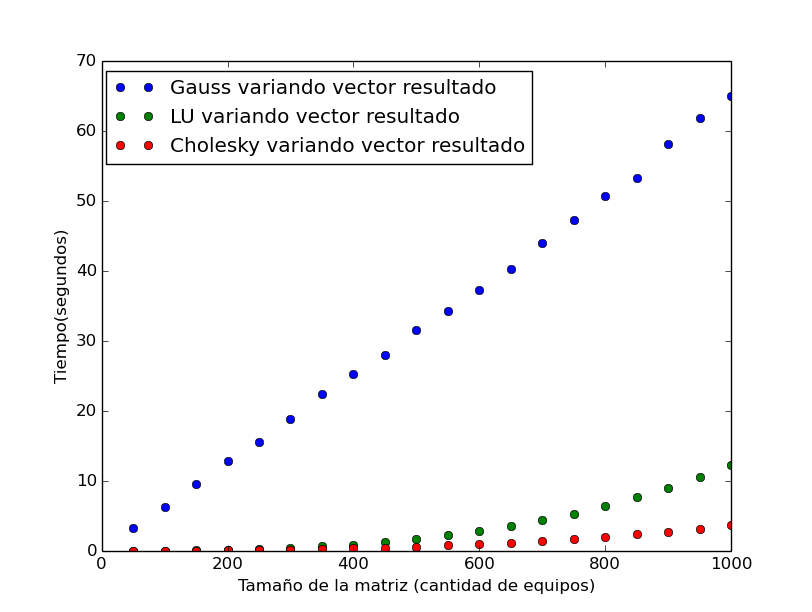
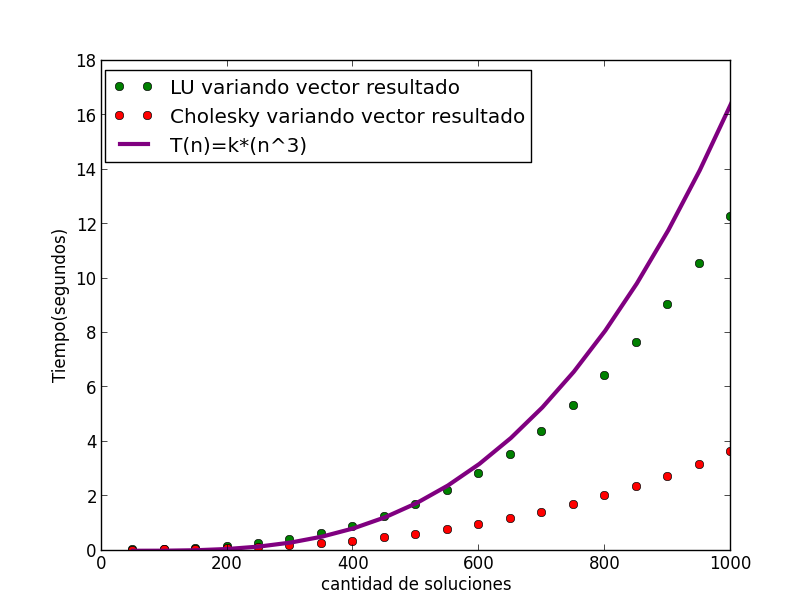
faltan un par de arreglos para que funcione minimizar

diff --git a/src/minimizar.cpp b/src/minimizar.cpp
@@ -1,0 +1,164 @@
+#include "clases/Matriz.h"
+#include "clases/MatrizSimetrica.h"
+//#include "crearTests/crearTests.cpp" Incluir en caso de querer crear matrices de esta manera
+#include "factorizacion/gauss.cpp"
+#include "factorizacion/cholesky.cpp"
+#include "factorizacion/resolucionSistema.cpp"
+#include <string>
+#include <fstream>
+#include <sstream>
+#include <iostream>
+#include <vector>
+#include <sys/time.h>
+
+timeval sstart, eend;
+double acum = 0;
+
+void init_time() {
+  gettimeofday(&sstart, NULL);
+}
+
+double get_time() {
+  gettimeofday(&eend, NULL);
+  return (1000000*(eend.tv_sec-sstart.tv_sec) + (eend.tv_usec-sstart.tv_usec))/1000000.0;
+}
+
+int maximo(vector<float>& a) {
+  int max = 0;
+  int n = a.size();
+
+  for (int i = 1; i < n; ++i) {
+    if (a[i] > a[max])
+      max = i;
+  }
+  return max;
+}
+
+int evaluarTests(std::string fileTestData, std::string fileTestResult, int equipo) {
+  std::string line;
+  std::ifstream fileData (fileTestData.c_str());
+  std::ofstream fileWrite (fileTestResult.c_str());
+  std::string s;
+  std::string res;
+  int cantEquipos;
+  int cantPartidos;
+  int z = 0;
+
+
+  while (getline (fileData, line)) {
+
+    std::istringstream iss(line);
+    iss >> cantEquipos;
+    iss >> cantPartidos;
+    Matriz C(cantEquipos, cantEquipos);
+    vector<int> w(cantEquipos, 0); // Cada posición tiene el numero de partidos ganados por el equipo i
+    vector<int> l(cantEquipos, 0); // Cada posición tiene el numero de partidos perdidos por el equipo i
+    vector<float> b(cantEquipos, 0); // Vector del sistema Cr = b
+
+    for (int k = 0; k < cantPartidos; ++k) {
+    
+      getline (fileData, line);
+
+      std::istringstream iss(line);
+
+      std::string fecha;
+      int equipo1;
+      int equipo2;
+      int golesEquipo1;
+      int golesEquipo2;
+
+      iss >> fecha;
+      iss >> equipo1;
+      iss >> golesEquipo1;
+      iss >> equipo2;
+      iss >> golesEquipo2;
+
+      equipo1 -= 1;
+      equipo2 -= 1;
+
+      if (golesEquipo1 > golesEquipo2) { // Gano el equipo 1
+        w[equipo1]++;
+        l[equipo2]++;
+      } else {
+        w[equipo2]++;
+        l[equipo1]++;
+      }
+
+      C[equipo1][equipo2]--;
+      C[equipo2][equipo1]--;
+
+    }
+
+    for (int i = 0 ; i < cantEquipos ; ++i) {
+      C[i][i] = 2.0 + w[i] + l[i];
+      b[i] = 1.0 + (w[i] - l[i]) / 2.0; 
+    }
+
+    std::vector<float> r(cantEquipos, 0);
+    std::vector<float> y(cantEquipos, 0);
+
+    Matriz L(cantEquipos, cantEquipos);
+
+    equipo -= 1;
+    cholesky(C, L);
+    Matriz LT = L;
+    LT.transponer();
+
+    resolverSistemaParaAdelante(L, b, y);
+    resolverSistemaParaAtras(LT, y, r);
+
+    int cantidadDePartidos = 0;
+    int ganador = maximo(r);
+    while (ganador != equipo) {
+      std::cout << ganador << std::endl;
+      cantidadDePartidos++;
+
+      C[ganador][equipo]--;
+      C[equipo][ganador]--; // Los hago jugar una vez más
+      w[equipo]++; // El equipo que quiero llevar arriba gano
+      l[ganador]--; // El mejor perdio
+      C[equipo][equipo]++;
+      C[ganador][ganador]++; // Ambos jugaron un partido más
+
+      b[equipo] = 1.0 + (w[equipo] - l[equipo]) / 2.0;
+      b[ganador] = 1.0 + (w[ganador] - l[ganador]) / 2.0; //Actualizo vector resultado
+
+      // Resuelvo el sistema de nuevo
+      cholesky(C, L);
+      Matriz LT = L;
+      LT.transponer();
+
+      resolverSistemaParaAdelante(L, b, y);
+      resolverSistemaParaAtras(LT, y, r);
+      //
+
+      ganador = maximo(r);
+      
+    }
+
+    std::cout << "cantidad de partidos: " << cantidadDePartidos << std::endl;
+    for (int i = 0 ; i < cantEquipos ; ++i) {
+      fileWrite << "equipo: " << i << " ranking: " << std::fixed << r[i] << std::endl; 
+    }
+
+  }
+
+  ++z;
+  std::cout << z << std::endl;
+
+  return 0;
+}
+
+int main(int argc, char** argv) {
+  std::string fileTestData(argv[1]);
+  std::string fileTestResult(argv[2]);
+  int equipo(atoi(argv[3]));
+  // Recibo por parametro tres archivos
+  // El primero del cual leo los datos a evaluar
+  // El segundo en el cual evaluo si los resultados fueron correctos
+  // El tercero el método a realizar (0 CMM-EG, 1 CMM-CL, 2 WP)
+
+  evaluarTests(fileTestData, fileTestResult, equipo);
+
+  return 0;
+}

diff --git a/src/graficos/graficos_tiempo_variando_Ryb.py b/src/graficos/graficos_tiempo_variando_Ryb.py
@@ -14,9 +14,9 @@ y_LU = []
 y_cholesky = []
           
 #valores primer funcion
-f = open('../resultadosTiempos/tiemposGaussVariandoB.txt', 'r')
-for i in range(0,20):
-  y_gauss.append(float(f.readline()[:-1]))
+#f = open('../resultadosTiempos/tiemposGaussVariandoB.txt', 'r')
+#for i in range(0,20):
+#  y_gauss.append(float(f.readline()[:-1]))
 
 #valores segunda funcion
 f = open('../resultadosTiempos/tiemposLUVariandoRyM.txt', 'r')
@@ -33,22 +33,22 @@ for i in range(0,20):
 #print len(y_cholesky)
 #print len(x)
 #print len(y_cholesky)
-plt.plot(x,y_gauss,'ro', color='blue', label="Gauss variando vector resultado")
+#plt.plot(x,y_gauss,'ro', color='blue', label="Gauss variando vector resultado")
 plt.plot(x,y_LU,'ro', color='green', label="LU variando vector resultado")
 plt.plot(x,y_cholesky,'ro', color='red', label="Cholesky variando vector resultado")
 
 yfunction = []
 
-#a = 50
-#for m in range(0,20):
-#  if m == 0:
-#    yfunction.append(0)
-#  else:
-#    yfunction.append(0.00004991721*a*a)
-#    a += 50
+a = 50
+for m in range(0,20):
+  if m == 0:
+    yfunction.append(0)
+  else:
+    yfunction.append(0.0000000191721*a*a*a)
+    a += 50
 
 #sin 'ro' lo plotea como una funcion comun, continua
-#plt.plot(x,yfunction, color='purple', label='T(n)=k*(n^2)',linewidth=3)
+plt.plot(x,yfunction, color='purple', label='T(n)=k*(n^3)',linewidth=3)
 plt.legend(bbox_to_anchor=(0.70,1))
 
 #nombre que va en el eje x
